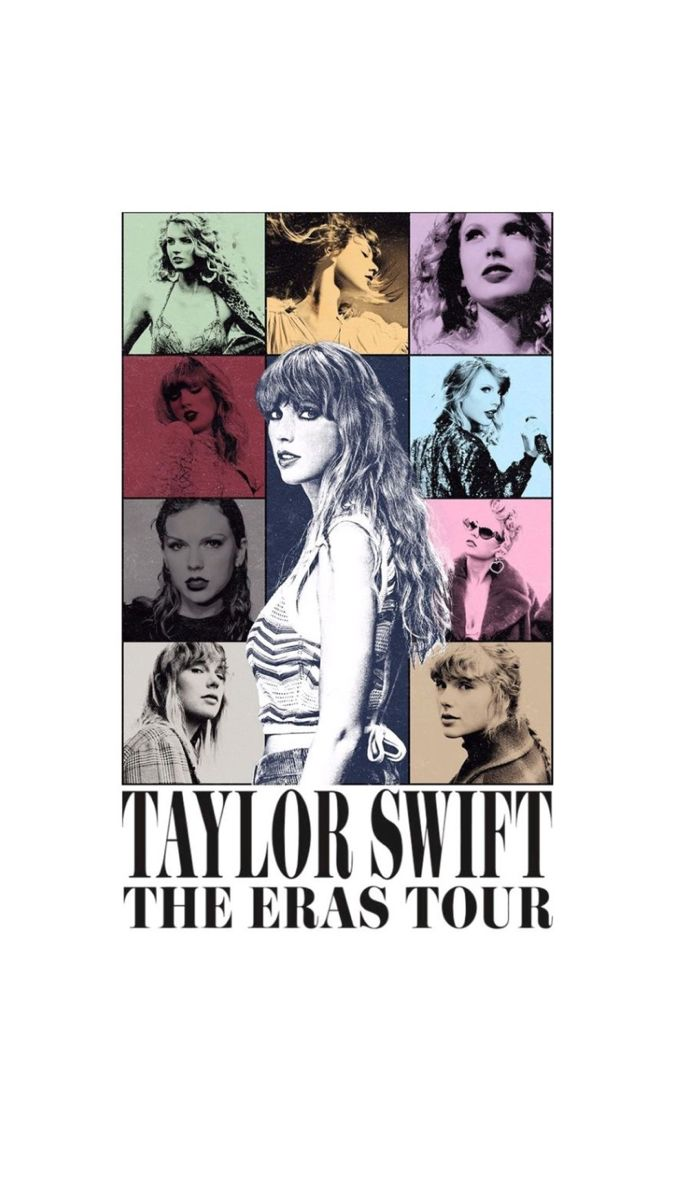
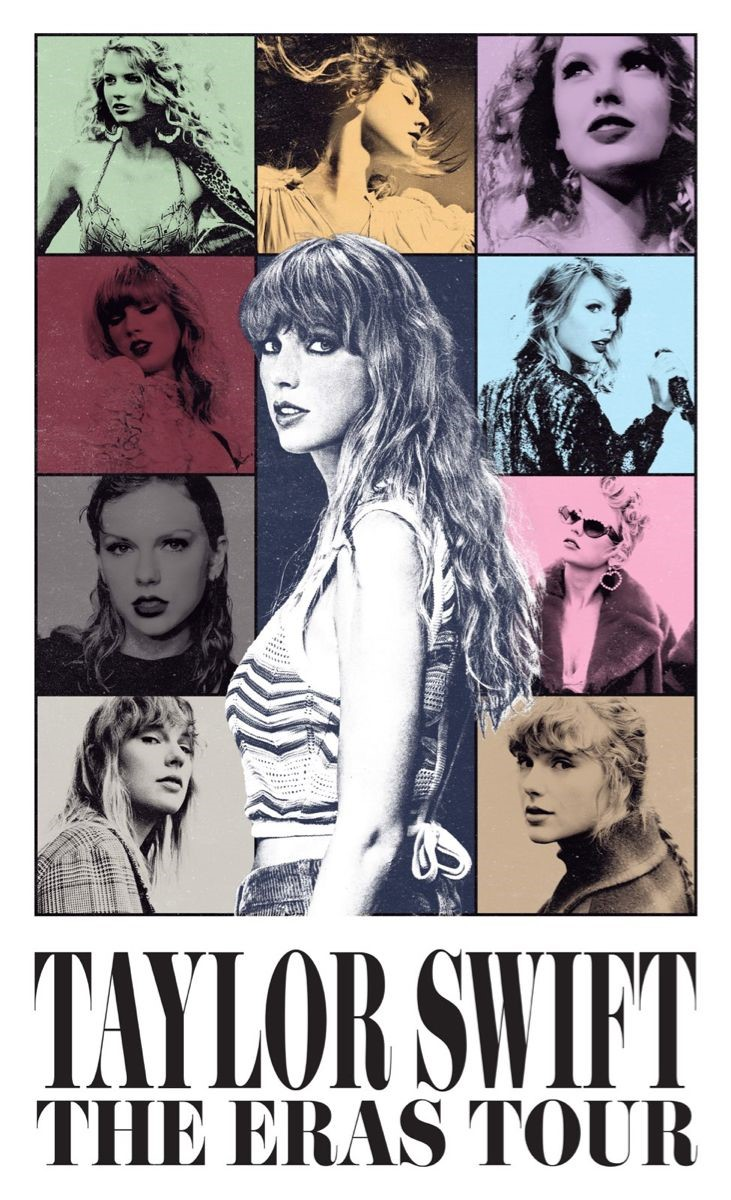
feat(countdown): Final styles and details

diff --git a/index.css b/index.css
@@ -5,6 +5,7 @@
 
 body {
     text-align: center;
+    text-shadow: 1px 1px 10px white; 
 }
 
 #main {
@@ -27,15 +28,13 @@ img {
 .infoDiv {
     padding: 40px 32px 32px 0px;
     margin-top: 100px;
-    /* background: repeating-conic-gradient(#00f 0 3%, #0000 0 11%) #fff;
-    filter: blur(20px) contrast(20); */
 }
 
 h1 {
     font-family: 'TheErasTitle';
     font-weight: 400;
     text-transform: uppercase;
-    font-size: 40px;
+    font-size: 40px;  
 }
 
 h3 {
@@ -51,4 +50,60 @@ h3 {
 
 #timerP {
     font-size: 20px;
+}
+
+#timerP span {
+    background: transparent url(link.png) repeat-x scroll 100% bottom;
+    padding-bottom: 10px;
+    text-decoration: none;
+    line-height: 40px;
+    font-size: 30px;
+}
+
+@media (max-width: 775px) {
+    #main {
+        grid-template-columns: none;
+    }
+
+    .imageDiv {
+        height: unset;
+        margin-bottom: 10px;
+    }
+    img {
+        height: 70vw;
+        margin-top: 80px;
+    }
+
+    .infoDiv {
+        padding: unset;
+        margin-top: -20px;
+    }
+
+    h1 {
+        font-size: 10vw;
+    }
+
+    #timerP span {
+        font-size: 5vw;
+    }
+}
+
+body {
+    height:200px;
+    background: rgb(189, 189, 189);
+    background: linear-gradient(90deg, rgb(36, 0, 0) 0%, rgb(145, 40, 13) 0%, rgb(169, 139, 16) 33%, rgba(150,126,197,1) 66%, rgba(0,255,222,1) 100%);
+    background-size: 300% 100%; 
+    animation: gradient 15s ease infinite;
+}
+
+@keyframes gradient {
+    0% {
+        background-position: 0% 50%; 
+    }
+    50% {
+        background-position: 100% 50%;
+    }
+    100% {
+        background-position: 0% 50%;
+    }
 }

diff --git a/index.html b/index.html
@@ -10,7 +10,7 @@
 <body>
     <div id="main">
         <div class="imageDiv">
-            <img src="Taylor Swift The Eras Tour (2).jpeg" alt="The Eras Tour">
+            <img src="Taylor Swift The Eras Tour.jpeg" alt="The Eras Tour">
         </div>
         <div class="infoDiv">
             <div id="dateDiv">
@@ -31,7 +31,6 @@
             <div id="dreamDiv">
                 <p id="dreamP">¡Vamos a vivir un sueño!</p>
             </div>
-            <!-- <canvas id="canvas"></canvas> -->
         </div>
     </div>
 
